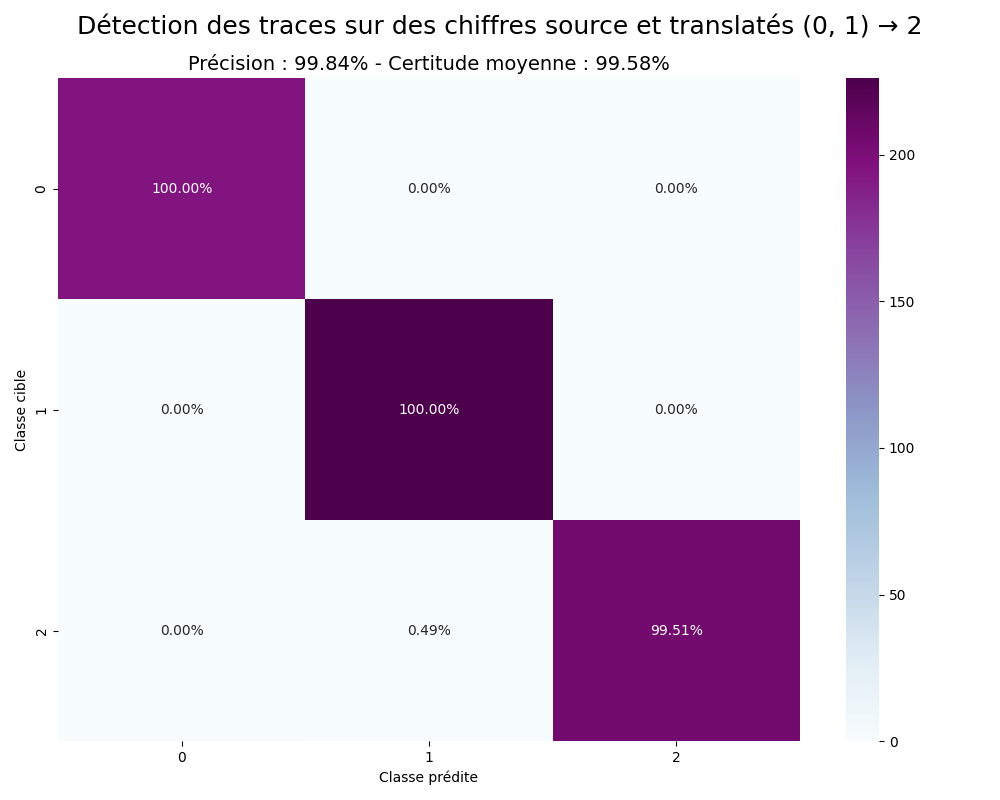
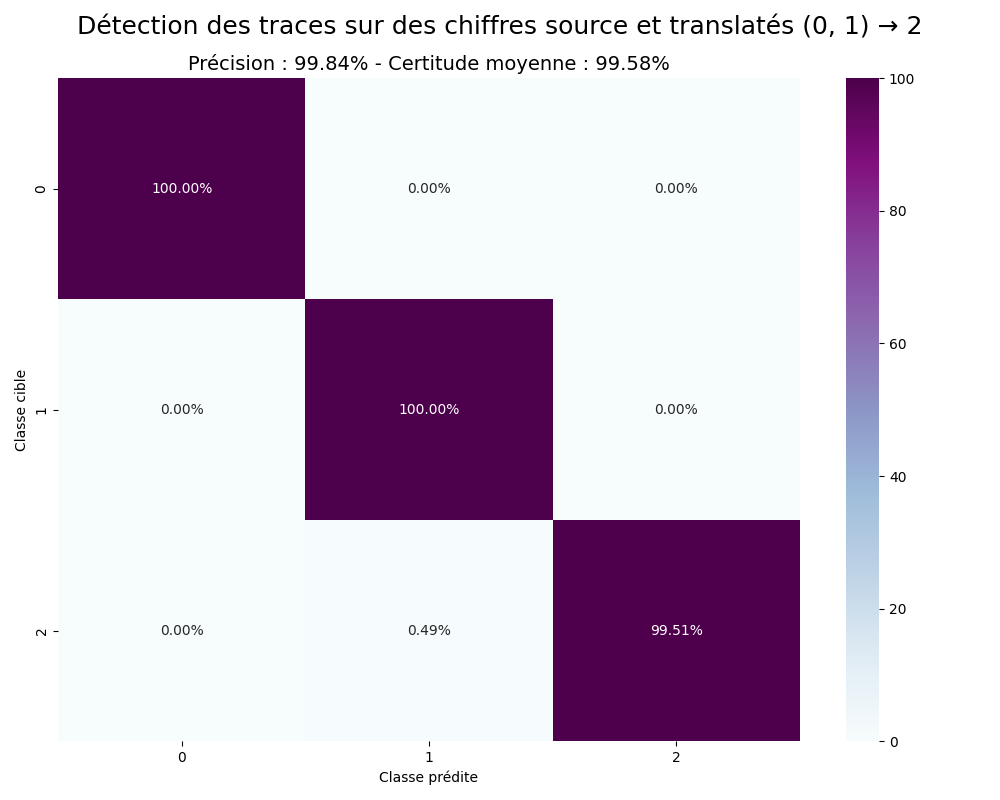
More confusion matrices for trace identification

Changed region(s): [[0.527, 0.625, 0.806, 0.9375], [0.031, 0.0938, 0.31, 0.375], [0.899, 0.1875, 0.93, 0.2188]]

diff --git a/Code/MNIST/MNIST-DISVAE-Residual-Classifier-Confusion.py b/Code/MNIST/MNIST-DISVAE-Residual-Classifier-Confusion.py
@@ -48,40 +48,127 @@ X_src_class0 = X_valid[Y_valid == src_class0].numpy()
 X_src_class1 = X_valid[Y_valid == src_class1].numpy()
 X_dst_class = X_valid[Y_valid == dst_class].numpy()
 
-len_src0 = int(itc * len(X_src_class0))
-len_src1 = int(itc * len(X_src_class1))
-len_dst = int(itc * len(X_dst_class))
+len_src0 = int(tc * len(X_src_class0))
+len_src1 = int(tc * len(X_src_class1))
+len_dst = int(tc * len(X_dst_class))
+
+ilen_src0 = int(itc * len(X_src_class0))
+ilen_src1 = int(itc * len(X_src_class1))
+ilen_dst = int(itc * len(X_dst_class))
 
 np.random.seed(42)
 np.random.shuffle(X_src_class0)
 np.random.shuffle(X_src_class1)
 
-X_src_class0[-(len_src0 // 2):] = decoder.predict(utils.encoded(X_src_class0[-(len_src0 // 2):], "", encoder, decoder, 3, batch_size, False) + encoded_means[dst_class] - encoded_means[src_class0])
-X_src_class1[-(len_src1 // 2):] = decoder.predict(utils.encoded(X_src_class1[-(len_src1 // 2):], "", encoder, decoder, 3, batch_size, False) + encoded_means[dst_class] - encoded_means[src_class1])
+X_src_class0[:(len_src0 // 2)] = decoder.predict(utils.encoded(X_src_class0[:(len_src0 // 2)], "", encoder, decoder, 3, batch_size, False) + encoded_means[dst_class] - encoded_means[src_class0])
+X_src_class1[:(len_src1 // 2)] = decoder.predict(utils.encoded(X_src_class1[:(len_src1 // 2)], "", encoder, decoder, 3, batch_size, False) + encoded_means[dst_class] - encoded_means[src_class1])
 
-"""random_indices = np.random.choice(X_src_class0[-len_src0:].shape[0], 100, replace=False)
+X_src_class0[-(ilen_src0 // 2):] = decoder.predict(utils.encoded(X_src_class0[-(ilen_src0 // 2):], "", encoder, decoder, 3, batch_size, False) + encoded_means[dst_class] - encoded_means[src_class0])
+X_src_class1[-(ilen_src1 // 2):] = decoder.predict(utils.encoded(X_src_class1[-(ilen_src1 // 2):], "", encoder, decoder, 3, batch_size, False) + encoded_means[dst_class] - encoded_means[src_class1])
+
+"""random_indices = np.random.choice(X_src_class0[-ilen_src0:].shape[0], 100, replace=False)
 
 fig, axes = plt.subplots(10, 10, figsize=(10, 10))
 
 for i, ax in enumerate(axes.flat):
-    ax.imshow(X_src_class0[-len_src0:][random_indices[i]], cmap='gray')
+    ax.imshow(X_src_class0[-ilen_src0:][random_indices[i]], cmap='gray')
     ax.axis('off')
 
 plt.tight_layout()
 plt.show()"""
 
+classifier = load_model("./Models/Classifieur/classifier.keras")
+res_classifier = load_model("./Models/Classifieur/residual-classifier-128.keras")
 
-X_classes = np.concatenate((X_src_class0[-len_src0:], X_src_class1[-len_src1:], X_dst_class[-len_dst:]))
+X_classes = np.concatenate((X_src_class0[-ilen_src0:], X_src_class1[-ilen_src1:], X_dst_class[-ilen_dst:]))
 X_classes = tf.image.resize(X_classes, (28, 28))
-Y_classes = to_categorical(np.concatenate((np.full(len_src0, 0), np.full(len_src1, 1), np.full(len_dst, 2))), 3)
+Y_classes = to_categorical(np.concatenate((np.full(ilen_src0, 0), np.full(ilen_src1, 1), np.full(ilen_dst, 2))), 3)
 
-X_classes_translated = np.concatenate((X_src_class0[-(len_src0 // 2):], X_src_class1[-(len_src1 // 2):]))
+X_classes_translated = np.concatenate((X_src_class0[-(ilen_src0 // 2):], X_src_class1[-(ilen_src1 // 2):]))
 X_classes_translated = tf.image.resize(X_classes_translated, (28, 28))
-Y_classes_translated = to_categorical(np.concatenate((np.full(len_src0 // 2, 0), np.full(len_src1 // 2, 1))), 3)
+Y_classes_translated = to_categorical(np.concatenate((np.full(ilen_src0 // 2, 0), np.full(ilen_src1 // 2, 1))), 3)
 
-classifier = load_model("./Models/Classifieur/residual-classifier-128.keras")
+X_classes_full = np.concatenate((X_src_class0, X_src_class1, X_dst_class))
+X_classes_full = tf.image.resize(X_classes_full, (28, 28))
+Y_classes_real_full = to_categorical(np.concatenate((
+    np.full(len_src0 // 2, dst_class),
+    np.full(len(X_src_class0) - len_src0 // 2 - ilen_src0 // 2, src_class0),
+    np.full(ilen_src0 // 2, dst_class),
+    
+    np.full(len_src1 // 2, dst_class),
+    np.full(len(X_src_class1) - len_src1 // 2 - ilen_src1 // 2, src_class1),
+    np.full(ilen_src1 // 2, dst_class),
 
-Y_pred = classifier.predict(X_classes)
+    np.full(len(X_dst_class), dst_class),
+)), 10)
+
+X_classes_translated_full = np.concatenate((X_src_class0[:(len_src0 // 2)], X_src_class0[-(ilen_src0 // 2):], X_src_class1[:(len_src1 // 2)], X_src_class1[-(ilen_src1 // 2):]))
+X_classes_translated_full = tf.image.resize(X_classes_translated_full, (28, 28))
+Y_classes_translated_full = to_categorical((np.full(len_src0 // 2 + ilen_src0 // 2 + len_src1 // 2 + ilen_src1 // 2, dst_class)), 10)
+
+labels = list(range(10))
+
+Y_pred = classifier.predict(X_classes_full)
+
+Y_pred_classes = np.argmax(Y_pred, axis = 1)
+Y_true_classes = np.argmax(Y_classes_real_full, axis = 1)
+
+certainty = np.max(Y_pred, axis=1)
+average_certainty = np.mean(certainty)
+
+accuracy = accuracy_score(Y_true_classes, Y_pred_classes)
+
+cm_full = confusion_matrix(Y_true_classes, Y_pred_classes, labels=labels)
+
+cm_full = cm_full[~np.all(cm_full == 0, axis=1)]
+
+row_sums = cm_full.sum(axis=1, keepdims=True)
+percentages = np.where(row_sums == 0, 0, cm_full / row_sums * 100)
+
+annot = np.array([["{:.2f}%".format(val) for val in row] for row in percentages])
+
+plt.figure(figsize=(10, 8))
+sns.heatmap(percentages, annot=annot, fmt="", cmap="BuPu", xticklabels=labels, yticklabels=[src_class0, src_class1, dst_class], vmin=0.0, vmax=100.0)
+plt.xlabel("Classe prédite")
+plt.ylabel("Classe cible")
+plt.suptitle(f"Classification des chiffres source et translatés ({src_class0}, {src_class1}) → {dst_class}", fontsize=18)
+plt.title(f"Précision : {accuracy:.2%} - Certitude moyenne : {average_certainty:.2%}", fontsize=14)
+plt.tight_layout()
+plt.savefig("./Results/mnist-trace-normal-classifier-full-confusion.png")
+
+
+
+
+
+
+
+
+Y_pred = classifier.predict(X_classes_translated_full)
+
+Y_pred_classes = np.argmax(Y_pred, axis = 1)
+Y_true_classes = np.argmax(Y_classes_translated_full, axis = 1)
+
+cm = confusion_matrix(Y_true_classes, Y_pred_classes, labels=labels)
+
+cm = cm[~np.all(cm == 0, axis=1)]
+
+cm = confusion_matrix(Y_true_classes, Y_pred_classes, labels=labels)
+cm = np.vstack((cm_full[dst_class] - cm[2], cm[2, :]))
+
+row_sums = cm.sum(axis=1, keepdims=True)
+percentages = np.where(row_sums == 0, 0, cm / row_sums * 100)
+
+annot = np.array([["{:.2f}%".format(val) for val in row] for row in percentages])
+
+plt.figure(figsize=(10, 8))
+sns.heatmap(percentages, annot=annot, fmt="", cmap="BuPu", xticklabels=False, yticklabels=["Non translatés", "Translatés"], vmin=0.0, vmax=100.0)
+plt.xlabel("Classe prédite")
+plt.suptitle(f"Classification des {dst_class} ({src_class0}, {src_class1}) → {dst_class}", fontsize=18)
+plt.tight_layout()
+plt.savefig("./Results/mnist-trace-normal-classifier-translated-dst-confusion.png")
+
+
+Y_pred = res_classifier.predict(X_classes)
 
 Y_pred_classes = np.argmax(Y_pred, axis = 1)
 Y_true_classes = np.argmax(Y_classes, axis = 1)
@@ -101,7 +188,7 @@ percentages = np.where(row_sums == 0, 0, cm / row_sums * 100)
 annot = np.array([["{:.2f}%".format(val) for val in row] for row in percentages])
 
 plt.figure(figsize=(10, 8))
-sns.heatmap(cm, annot=annot, fmt="", cmap="BuPu", xticklabels=labels, yticklabels=labels)
+sns.heatmap(percentages, annot=annot, fmt="", cmap="BuPu", xticklabels=labels, yticklabels=labels, vmin=0.0, vmax=100.0)
 plt.xlabel("Classe prédite")
 plt.ylabel("Classe cible")
 plt.suptitle(f"Détection des traces sur des chiffres source et translatés ({src_class0}, {src_class1}) → {dst_class}", fontsize=18)
@@ -111,7 +198,7 @@ plt.savefig("./Results/mnist-trace-classifier-confusion.png")
 
 
 
-Y_pred = classifier.predict(X_classes_translated)
+Y_pred = res_classifier.predict(X_classes_translated)
 
 Y_pred_classes = np.argmax(Y_pred, axis = 1)
 Y_true_classes = np.argmax(Y_classes_translated, axis = 1)
@@ -130,7 +217,7 @@ percentages = np.where(row_sums == 0, 0, cm / row_sums * 100)
 annot = np.array([["{:.2f}%".format(val) for val in row] for row in percentages])
 
 plt.figure(figsize=(10, 8))
-sns.heatmap(cm, annot=annot, fmt="", cmap="BuPu", xticklabels=labels, yticklabels=labels[:-1])
+sns.heatmap(percentages, annot=annot, fmt="", cmap="BuPu", xticklabels=labels, yticklabels=labels[:-1], vmin=0.0, vmax=100.0)
 plt.xlabel("Classe prédite")
 plt.ylabel("Classe cible")
 plt.suptitle(f"Détection des traces sur des chiffres translatés uniquement ({src_class0}, {src_class1}) → {dst_class}", fontsize=18)
@@ -143,11 +230,11 @@ X_classes = tf.image.resize(X_classes, (64, 64))
 X_encoded_classes = encoder.predict(X_classes)
 
 Y_tsne = np.concatenate((
-    np.full(len_src0 - len_src0 // 2, 0),
-    np.full(len_src0 // 2, 1),
-    np.full(len_src1 - len_src1 // 2, 2),
-    np.full(len_src1 // 2, 3),
-    np.full(len_dst, 4),
+    np.full(ilen_src0 - ilen_src0 // 2, 0),
+    np.full(ilen_src0 // 2, 1),
+    np.full(ilen_src1 - ilen_src1 // 2, 2),
+    np.full(ilen_src1 // 2, 3),
+    np.full(ilen_dst, 4),
 ))
 
 tsne = TSNE(n_components = 2, random_state = 1337, max_iter = 300)
